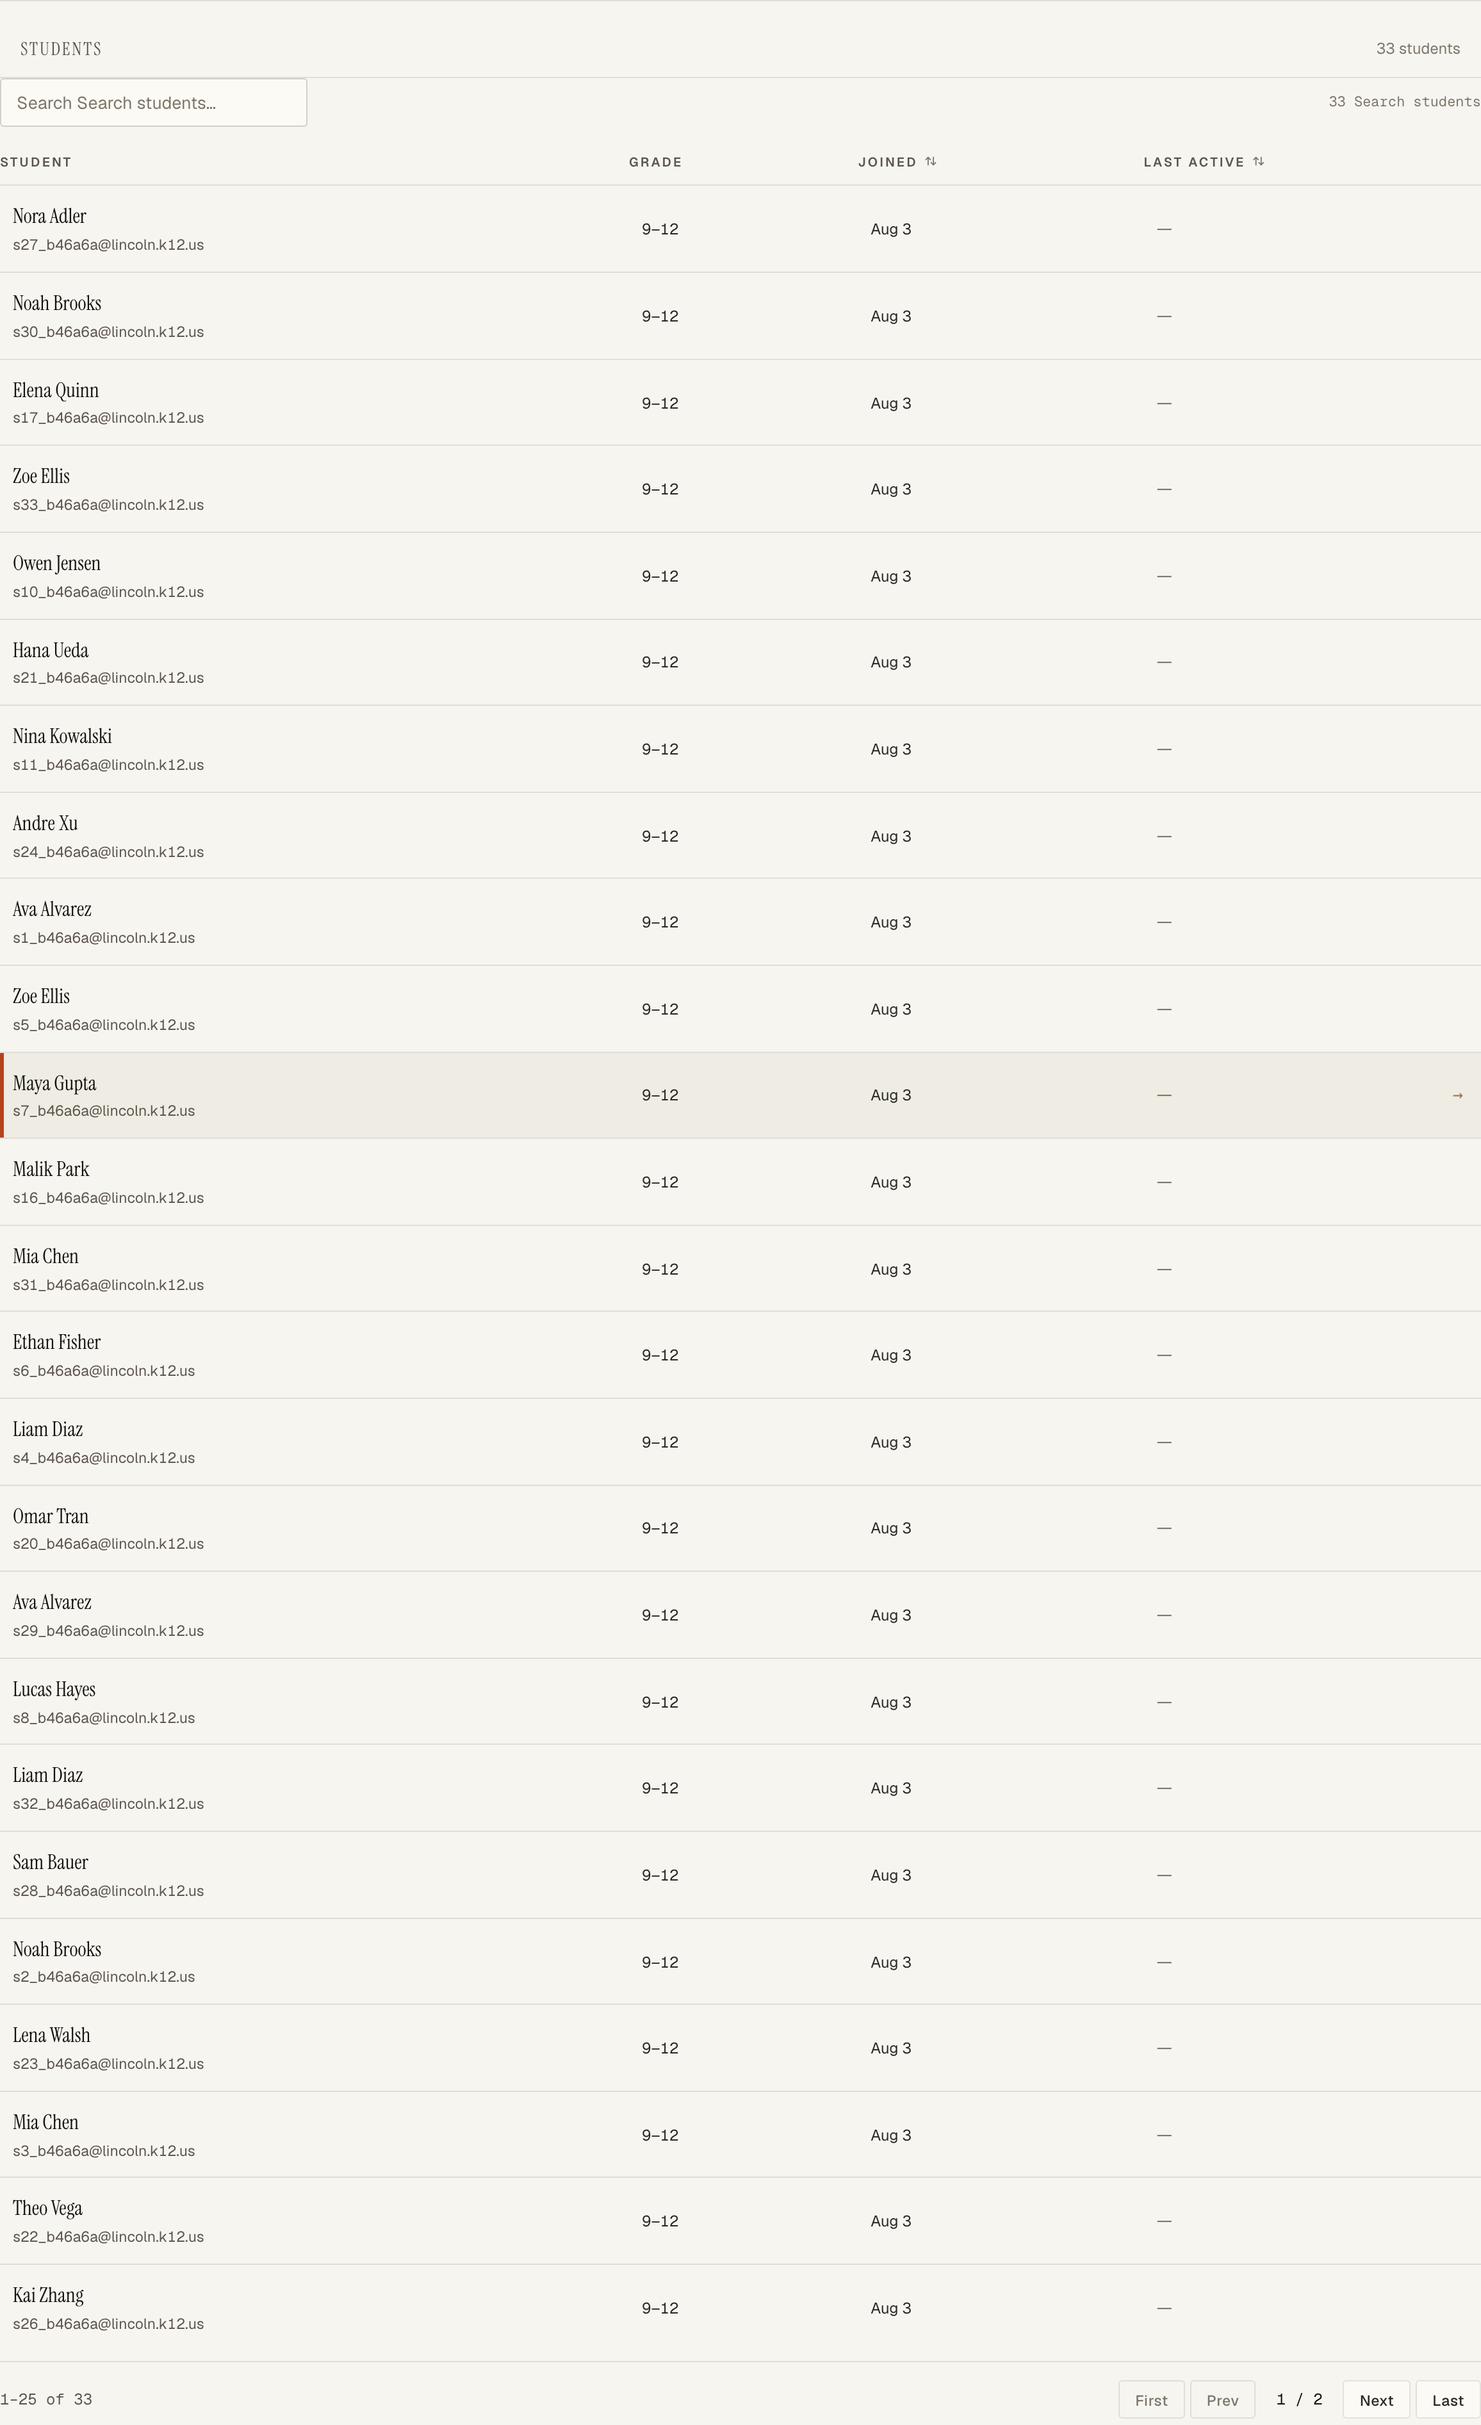
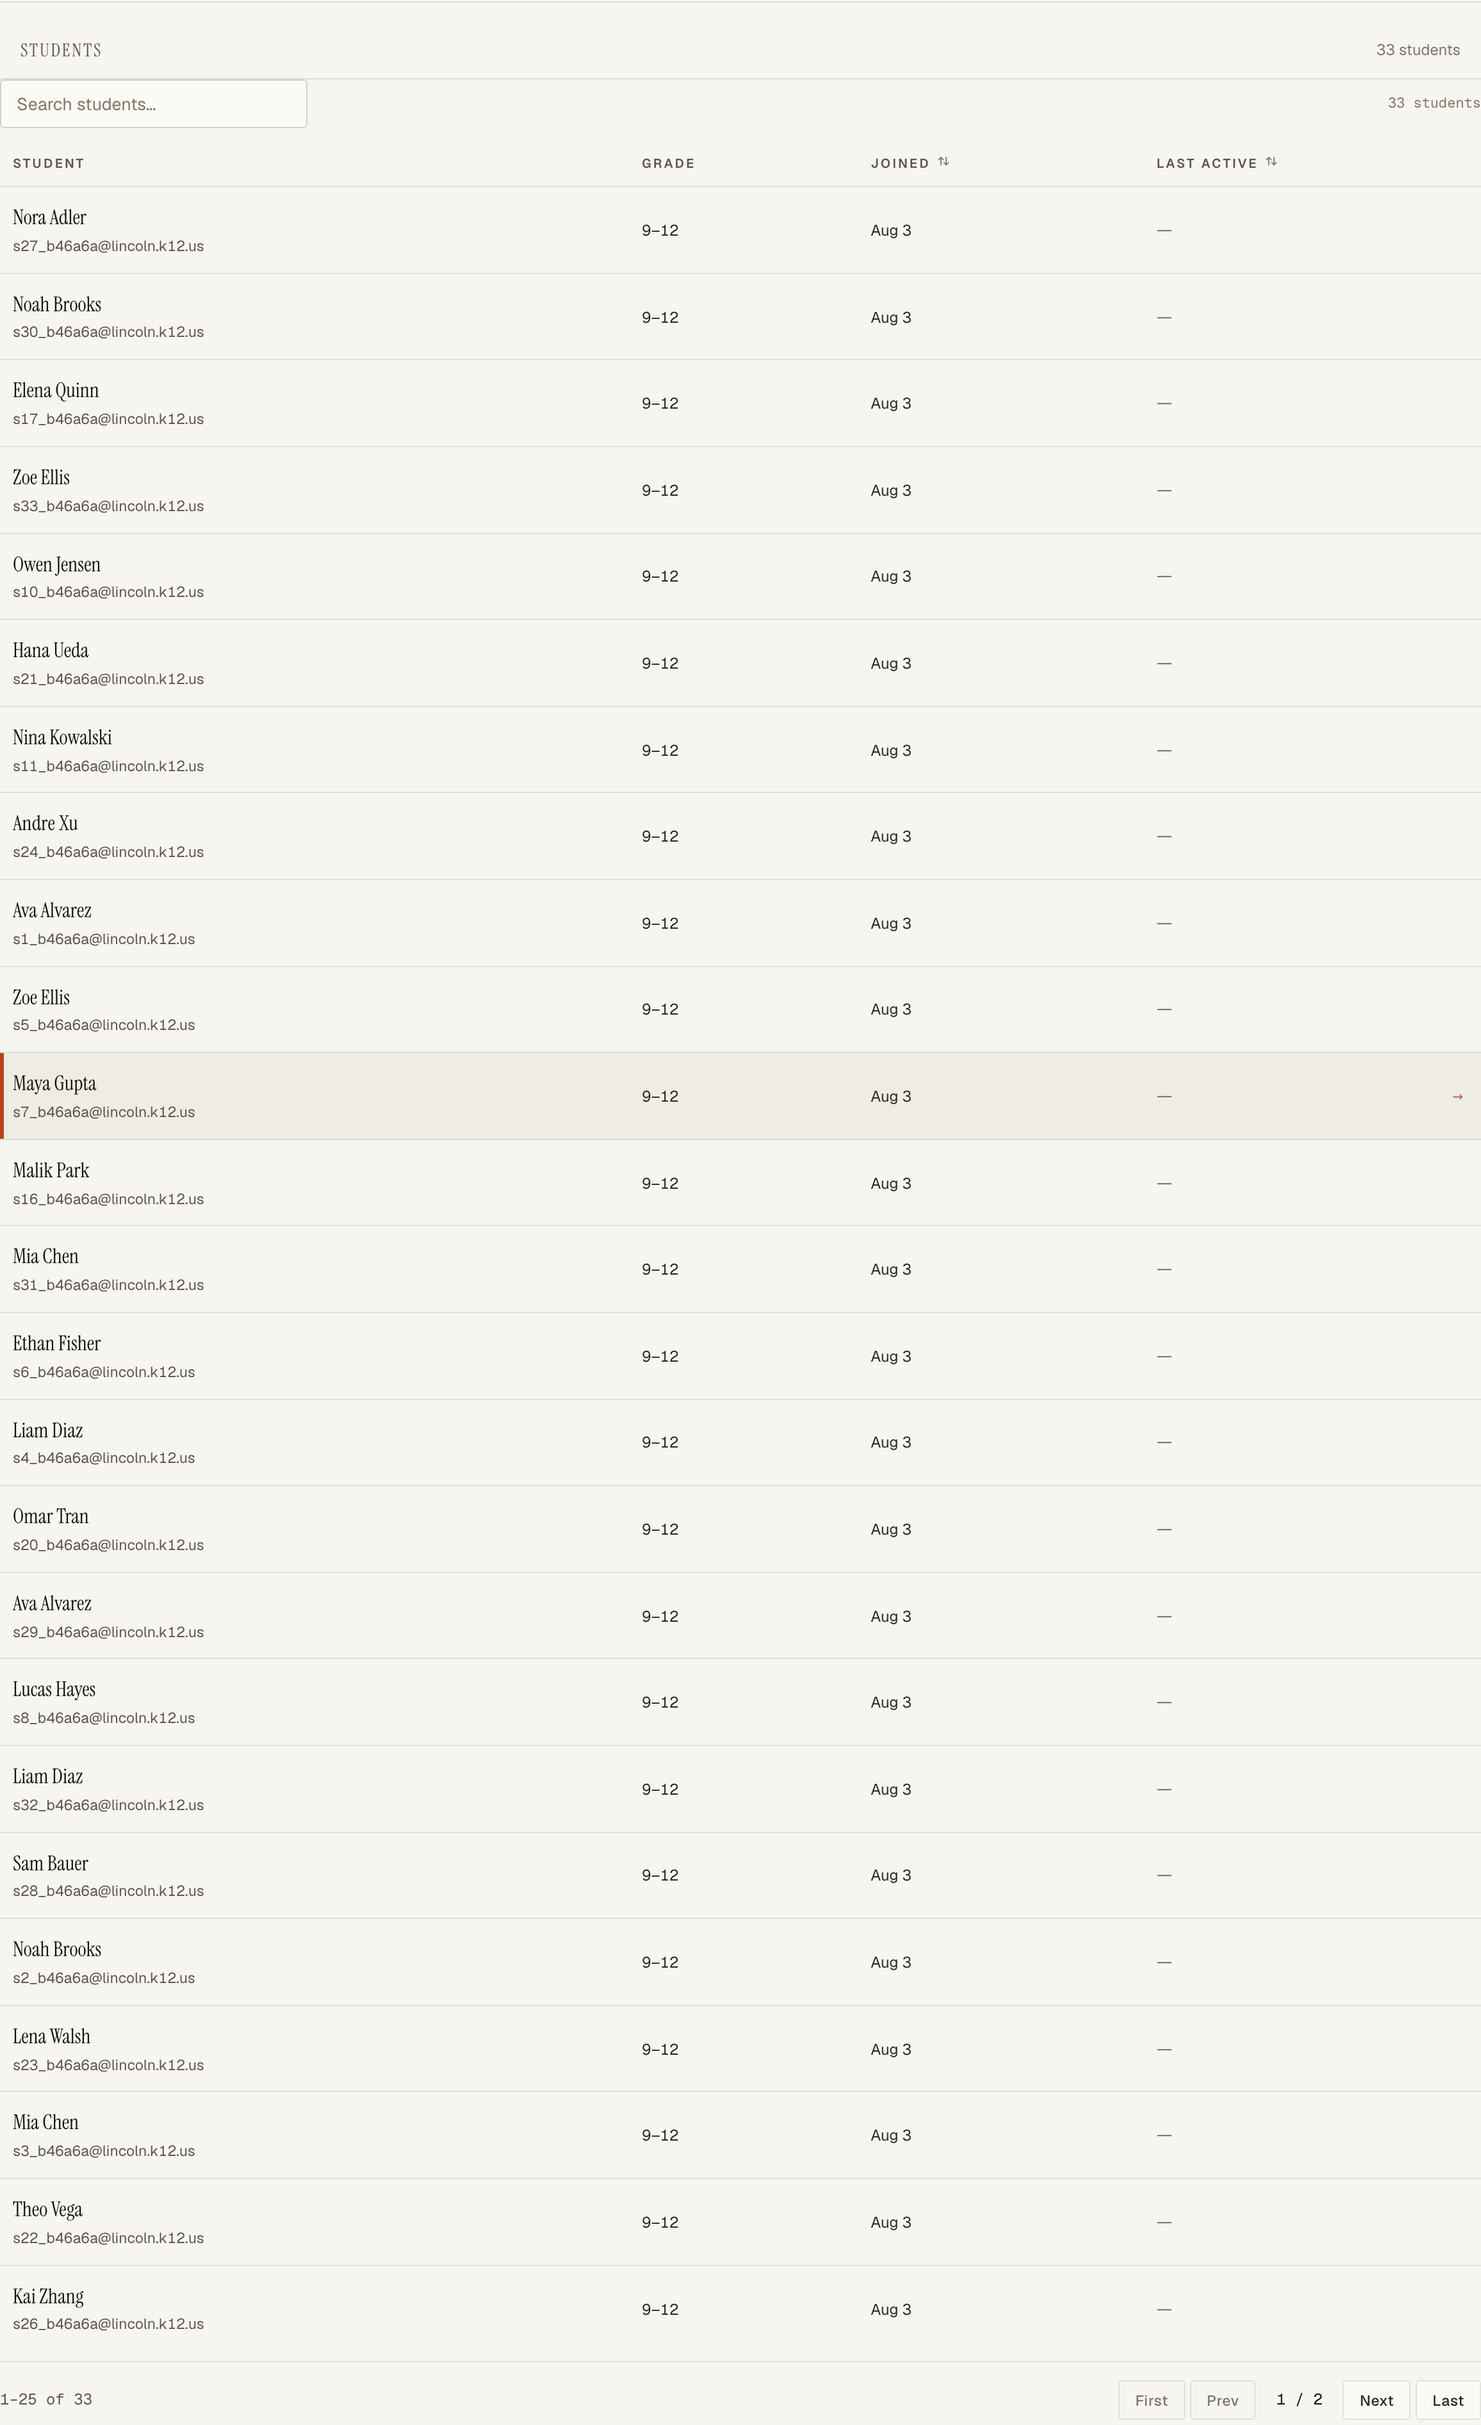
fix: act on cold review round 2 — the truncation defect, reintroduced
An independent reviewer with no context on this branch found fourteen
things. These are the ones that survived re-verification.

**The new Work-handed-in panel repeated the exact defect the commit
below it removed.** It fetched `limit=25` and handed those rows to a
table with `pageSize={25}`; `DataTable` only draws a pager when
`filtered.length > pageSize`, so 25 never produced one. The panel read
"62 submissions" above 25 rows with no pager: 37 unreachable, sorting by
AI → final surfacing the biggest override *on page one* rather than
overall, and search answering "no match" for a student sitting in rows
26-62. Now pulls the set (ceiling 500, raised from 200 server-side) and
pages it locally, so sort and search see everything; past the ceiling it
says it is showing a prefix instead of implying completeness.
Verified: 1–25 of 62 → 26–50 → 51–62 (12 rows).

**I misaligned every table in the console.** The previous commit gave
`table.dt td` a `padding-left` for the row-status bar and left
`table.dt th` at 0, so body text sat 10px right of its own header on
every left-aligned column across 19 DataTable call sites. Measured
header-to-body offset is now 0 on all columns.

**"N with a changed score" mixed two denominators.** Counted from the
fetched rows and printed beside the server total — and under
`overriddenOnly` the server total IS the override count, so a teacher
with 60 overrides rendered "60 submissions · 25 with a changed score".
[…]

diff --git a/dashboard/src/components/TeacherSubmissions.tsx b/dashboard/src/components/TeacherSubmissions.tsx
@@ -25,6 +25,25 @@ import StatusPill from "./StatusPill";
 
 const PAGE = 25;
 
+/**
+ * How many rows to pull so `DataTable` can search, sort and page across
+ * the WHOLE set rather than a slice of it.
+ *
+ * The first version fetched `limit=25` and handed those to a table with
+ * `pageSize={25}`. `DataTable` only renders a pager when
+ * `filtered.length > pageSize`, so 25 rows never produced one: the panel
+ * read "62 submissions" above 25 rows with no pager, 37 unreachable,
+ * client sort surfacing the biggest override *on page one* rather than
+ * overall, and search reporting "no match" for a student who exists in
+ * rows 26-62. Exactly the defect the calls panel one section below was
+ * rewritten to remove, reintroduced above it.
+ *
+ * Fetching the set and paging it locally keeps sort and search honest.
+ * The ceiling is real, so when it bites the panel says so rather than
+ * quietly showing a prefix.
+ */
+const FETCH_LIMIT = 500;
+
 type Row = TeacherSubmissionsData["submissions"][number];
 
 export default function TeacherSubmissions({ teacherId }: { teacherId: string }) {
@@ -36,7 +55,7 @@ export default function TeacherSubmissions({ teacherId }: { teacherId: string })
 
   useEffect(() => {
     let cancelled = false;
-    const params: Record<string, string> = { limit: String(PAGE) };
+    const params: Record<string, string> = { limit: String(FETCH_LIMIT) };
     if (overriddenOnly) params.overridden_only = "true";
     api
       .teacherSubmissions(teacherId, params)
@@ -54,7 +73,11 @@ export default function TeacherSubmissions({ teacherId }: { teacherId: string })
   }, [teacherId, overriddenOnly, reloadKey]);
 
   const rows = data?.submissions ?? [];
-  const overrides = rows.filter((r) => r.overridden).length;
+  const truncated = data !== null && data.total > rows.length;
+  // Counted over the rows actually held. Under `overriddenOnly` the
+  // server total IS the override count, so deriving it again from a
+  // partial page would contradict the number beside it.
+  const overrides = overriddenOnly ? (data?.total ?? 0) : rows.filter((r) => r.overridden).length;
 
   const columns: Column<Row>[] = [
     {
@@ -138,9 +161,14 @@ export default function TeacherSubmissions({ teacherId }: { teacherId: string })
               <strong>{data.total.toLocaleString()}</strong> submission
               {data.total === 1 ? "" : "s"}
             </span>
-            {overrides > 0 && (
+            {overrides > 0 && !overriddenOnly && (
               <span>
                 <strong>{overrides}</strong> with a changed score
+              </span>
+            )}
+            {truncated && (
+              <span className="muted">
+                showing the most recent {rows.length.toLocaleString()}
               </span>
             )}
           </div>
@@ -174,7 +202,7 @@ export default function TeacherSubmissions({ teacherId }: { teacherId: string })
         }
         defaultSort={{ key: "submitted", dir: "desc" }}
         searchKeys={(r) => [r.student_name, r.assignment_title]}
-        searchLabel="Search student or assignment"
+        searchLabel="submissions"
         pageSize={PAGE}
         minWidth={720}
         empty={

diff --git a/dashboard/src/components/TeacherLLMCalls.tsx b/dashboard/src/components/TeacherLLMCalls.tsx
@@ -122,15 +122,28 @@ export default function TeacherLLMCalls({ teacherId }: { teacherId: string }) {
           {/* The bounds, stated. `total_count_window` is the count for the
               whole window; `calls.length` is what's on this page. */}
           <div className="panel-bar-facts">
+            {/* `total_count` respects the active filter; the `_window`
+                figures do not. Showing the filtered count keeps the strip
+                and the table describing the same set — the cost and
+                failure totals stay window-wide and are labelled as such
+                only when nothing is filtering them out. */}
             <span>
-              <strong>{data.total_count_window.toLocaleString()}</strong> call
-              {data.total_count_window === 1 ? "" : "s"}
+              <strong>{data.total_count.toLocaleString()}</strong> call
+              {data.total_count === 1 ? "" : "s"}
             </span>
-            <span className={failures > 0 ? "bad" : undefined}>
-              <strong>{failures.toLocaleString()}</strong> failed
+            {!filtering && (
+              <>
+                <span className={failures > 0 ? "bad" : undefined}>
+                  <strong>{failures.toLocaleString()}</strong> failed
+                </span>
+                <span className="muted">{fmtCost(data.total_cost_window)}</span>
+              </>
+            )}
+            <span className="muted">
+              {filtering
+                ? `of ${data.total_count_window.toLocaleString()} in the last 30 days`
+                : "last 30 days"}
             </span>
-            <span className="muted">{fmtCost(data.total_cost_window)}</span>
-            <span className="muted">last 30 days</span>
           </div>
           <div className="panel-bar-controls">
             {functions.length > 1 && (
@@ -197,8 +210,13 @@ export default function TeacherLLMCalls({ teacherId }: { teacherId: string }) {
               ))
             ) : calls.length === 0 ? (
               <tr>
-                <td colSpan={6} className="dt-state">
-                  No calls match this filter.
+                {/* The state class goes on a DIV inside the cell, never on
+                    the <td>: `.dt-state` is `display: flex`, which
+                    overrides `table-cell` and makes the browser ignore
+                    colSpan entirely. `DataTable` already does it this
+                    way. */}
+                <td colSpan={6}>
+                  <div className="dt-state">No calls match this filter.</div>
                 </td>
               </tr>
             ) : (

diff --git a/dashboard/src/lib/format.ts b/dashboard/src/lib/format.ts
@@ -78,7 +78,11 @@ export function shortId(id: string): string {
  * site.
  */
 export function shortModel(model: string): string {
-  const m = /^claude-(opus|sonnet|haiku)-(\d+)(?:-(\d+))?/.exec(model);
+  // The minor group is bounded to 1-2 digits so an 8-digit dated
+  // snapshot can't be read as a minor version:
+  //   claude-sonnet-4-20250514  -> Sonnet 4    (not "Sonnet 4.20250514")
+  //   claude-opus-4-1-20250805  -> Opus 4.1
+  const m = /^claude-(opus|sonnet|haiku)-(\d+)(?:-(\d{1,2})(?!\d))?/.exec(model);
   if (!m) return model.replace(/-\d{8}$/, "").replace(/^claude-/, "");
   const tier = m[1][0].toUpperCase() + m[1].slice(1);
   return `${tier} ${m[3] ? `${m[2]}.${m[3]}` : m[2]}`;
@@ -108,7 +112,13 @@ export function renderChipValue(v: unknown): string {
  * them carries no information at all. Debugging needs to line a call up
  * against a submission and a teacher action, which needs a clock.
  *
- * Today collapses to the time alone; anything older keeps its date.
+ * Today collapses to the time alone; anything older keeps its date, and
+ * a different year keeps that too.
+ *
+ * Rendered in the VIEWER'S timezone. Call sites pair it with the raw ISO
+ * timestamp in `title`, which is UTC — across midnight the two disagree
+ * by a day, so anything comparing against a server log should read the
+ * hover, not the cell.
  */
 export function fmtClockTime(dateStr: string): string {
   const d = new Date(dateStr);
@@ -122,6 +132,12 @@ export function fmtClockTime(dateStr: string): string {
     d.getMonth() === today.getMonth() &&
     d.getFullYear() === today.getFullYear();
   if (sameDay) return time;
-  const date = d.toLocaleDateString(undefined, { month: "short", day: "numeric" });
+  // Carry the year once the row is from a different one — submissions
+  // spanning school years were otherwise indistinguishable.
+  const date = d.toLocaleDateString(undefined, {
+    month: "short",
+    day: "numeric",
+    ...(d.getFullYear() === today.getFullYear() ? {} : { year: "numeric" }),
+  });
   return `${date} ${time}`;
 }

diff --git a/dashboard/src/pages/TeacherDetail.tsx b/dashboard/src/pages/TeacherDetail.tsx
@@ -232,7 +232,7 @@ export default function TeacherDetail() {
           </span>
         </div>
         <div style={{ padding: "12px 16px 4px" }}>
-          <TeacherSubmissions teacherId={t.id} />
+          <TeacherSubmissions key={t.id} teacherId={t.id} />
         </div>
       </section>
 
@@ -252,7 +252,7 @@ export default function TeacherDetail() {
           </span>
         </div>
         <div style={{ padding: "12px 16px 4px" }}>
-          <TeacherLLMCalls teacherId={t.id} />
+          <TeacherLLMCalls key={t.id} teacherId={t.id} />
         </div>
       </section>
 
@@ -502,7 +502,7 @@ function StudentsCard({
         drill
         minWidth={560}
         searchKeys={(s) => [s.name, s.email]}
-        searchLabel="Search students"
+        searchLabel="students"
         pageSize={25}
         empty={
           <div className="empty-state">

diff --git a/dashboard/src/index.css b/dashboard/src/index.css
@@ -2220,7 +2220,10 @@ table.dt {
 }
 table.dt th {
   text-align: left;
-  padding: 10px 14px 10px 0;
+  /* Must track `table.dt td` exactly. When only `td` gained left padding
+     (for the row-status bar), every left-aligned column's body text sat
+     10px right of its own header label across all 19 tables. */
+  padding: 10px 14px 10px 10px;
   font-family: var(--font-sans);
   font-size: 10px;
   font-weight: 600;

diff --git a/dashboard/src/pages/SchoolDetail.tsx b/dashboard/src/pages/SchoolDetail.tsx
@@ -1045,7 +1045,7 @@ function SectionRow({
               defaultSort={{ key: "student", dir: "asc" }}
               minWidth={520}
               searchKeys={(s) => [s.name, s.email]}
-              searchLabel="Search students"
+              searchLabel="students"
               pageSize={25}
             />
           )}

diff --git a/api/routes/admin_users.py b/api/routes/admin_users.py
@@ -1134,7 +1134,11 @@ async def _teacher_usage(db: AsyncSession, teacher_id: uuid.UUID) -> dict[str, A
 @router.get("/users/{teacher_id}/submissions")
 async def teacher_submissions(
     teacher_id: uuid.UUID,
-    limit: int = Query(default=25, ge=1, le=200),
+    # Ceiling is 500 because the panel pulls the set and pages it in the
+    # browser: searching and sorting a slice silently answers the wrong
+    # question ("the biggest override on page one" is not "the biggest
+    # override"). Past 500 the panel says it is showing a prefix.
+    limit: int = Query(default=25, ge=1, le=500),
     offset: int = Query(default=0, ge=0),
     overridden_only: bool = Query(default=False),
     current_user: CurrentUser = Depends(require_admin),
@@ -1184,13 +1188,18 @@ async def teacher_submissions(
 
     # Calls per submission, so a row can say whether there is anything to
     # look at before you click into the trace.
+    # Correlated to THIS teacher's submissions. Without the `in_(base)`
+    # bound the planner seq-scans `llm_calls` and hash-aggregates every
+    # row in the table before joining the ~25 it needs — invisible at 138
+    # rows and a full scan of the fastest-growing table in the schema on
+    # a hot admin page once it isn't.
     calls_sq = (
         select(
             LLMCall.submission_id.label("submission_id"),
             func.count().label("call_count"),
             func.count().filter(LLMCall.success.is_(False)).label("failed_count"),
         )
-        .where(LLMCall.submission_id.isnot(None))
+        .where(LLMCall.submission_id.in_(base))
         .group_by(LLMCall.submission_id)
         .subquery()
     )
